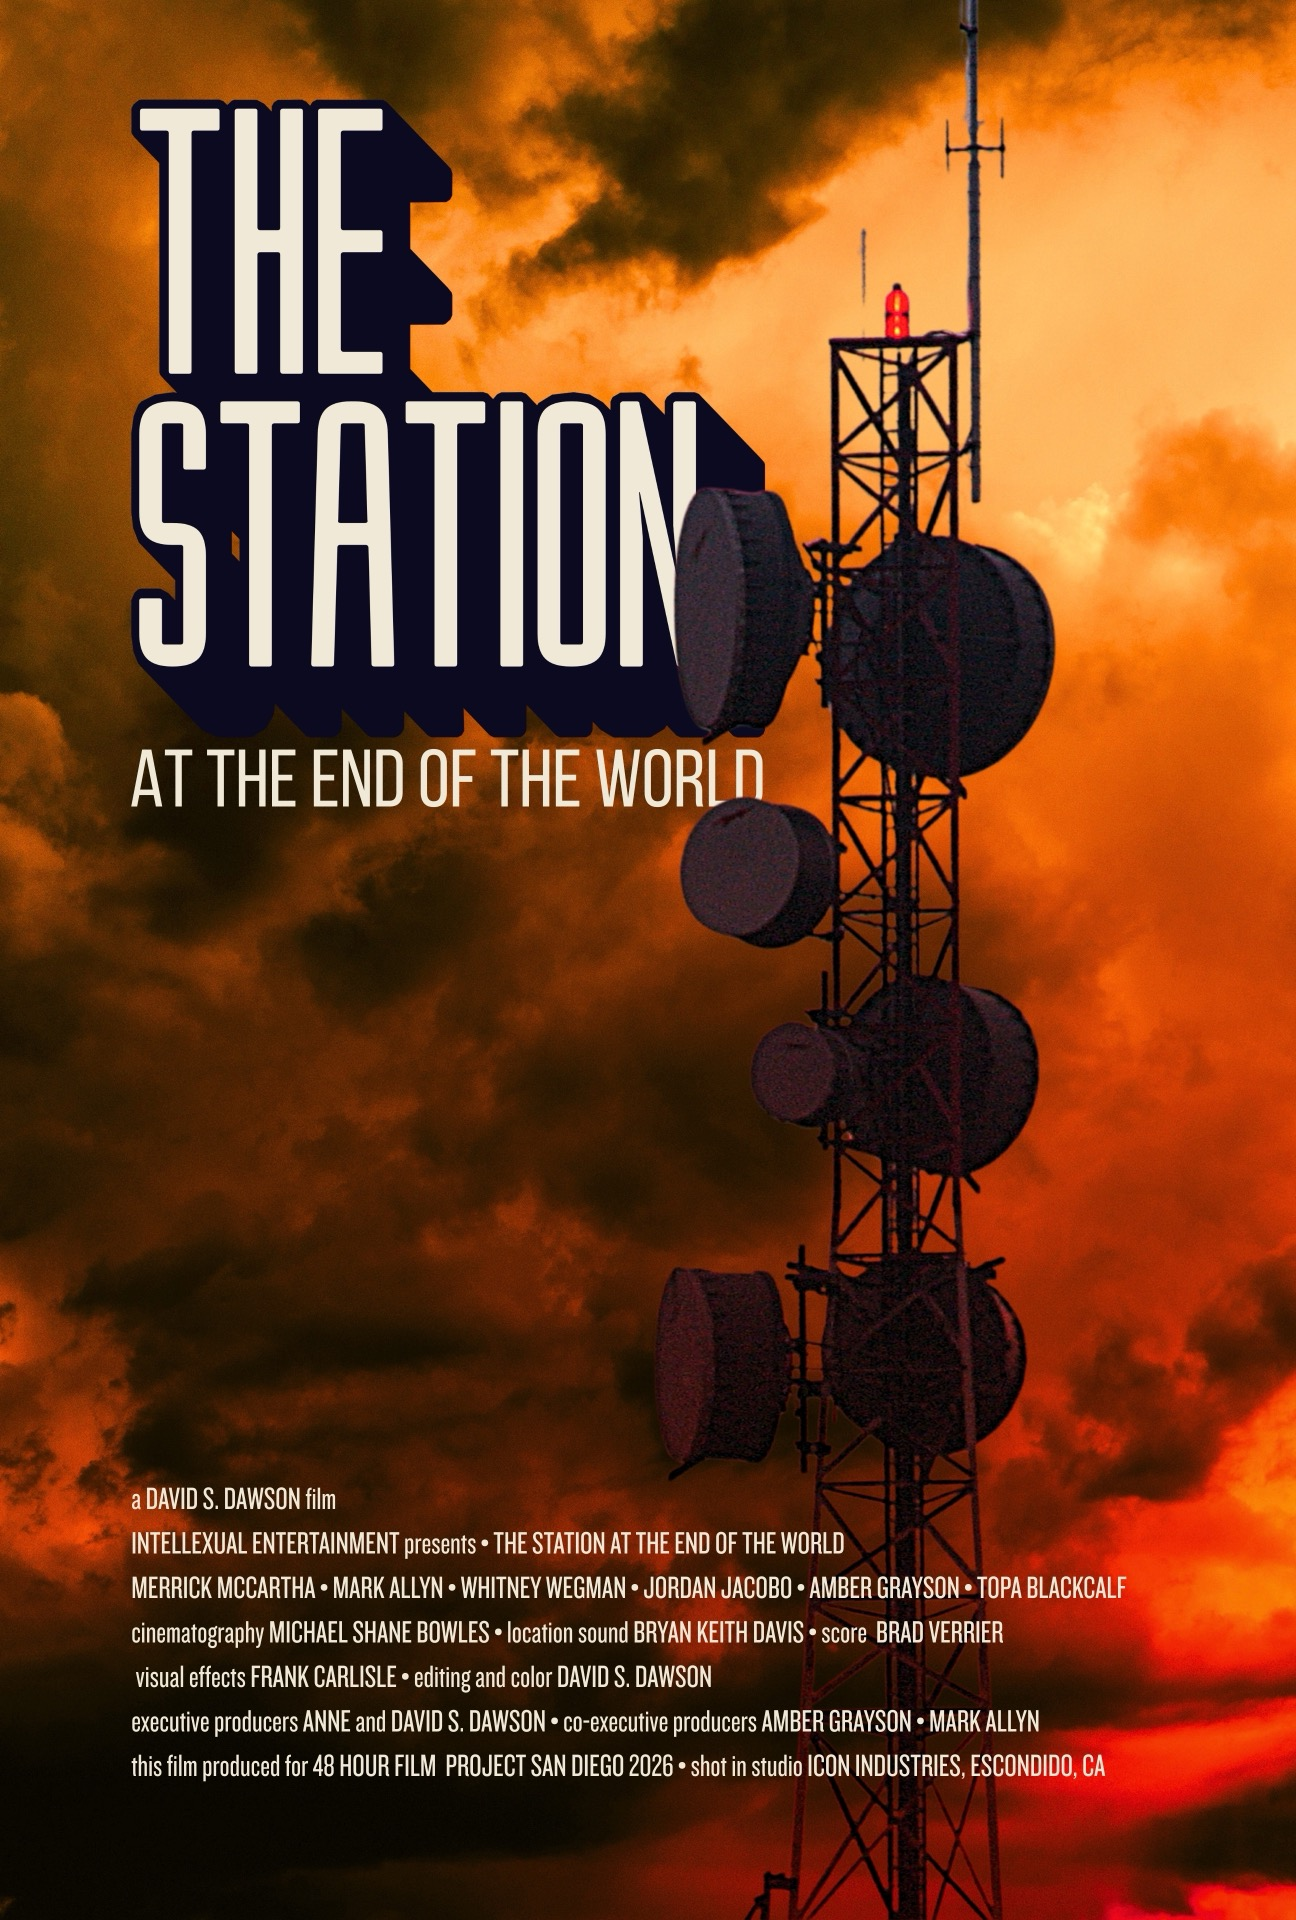
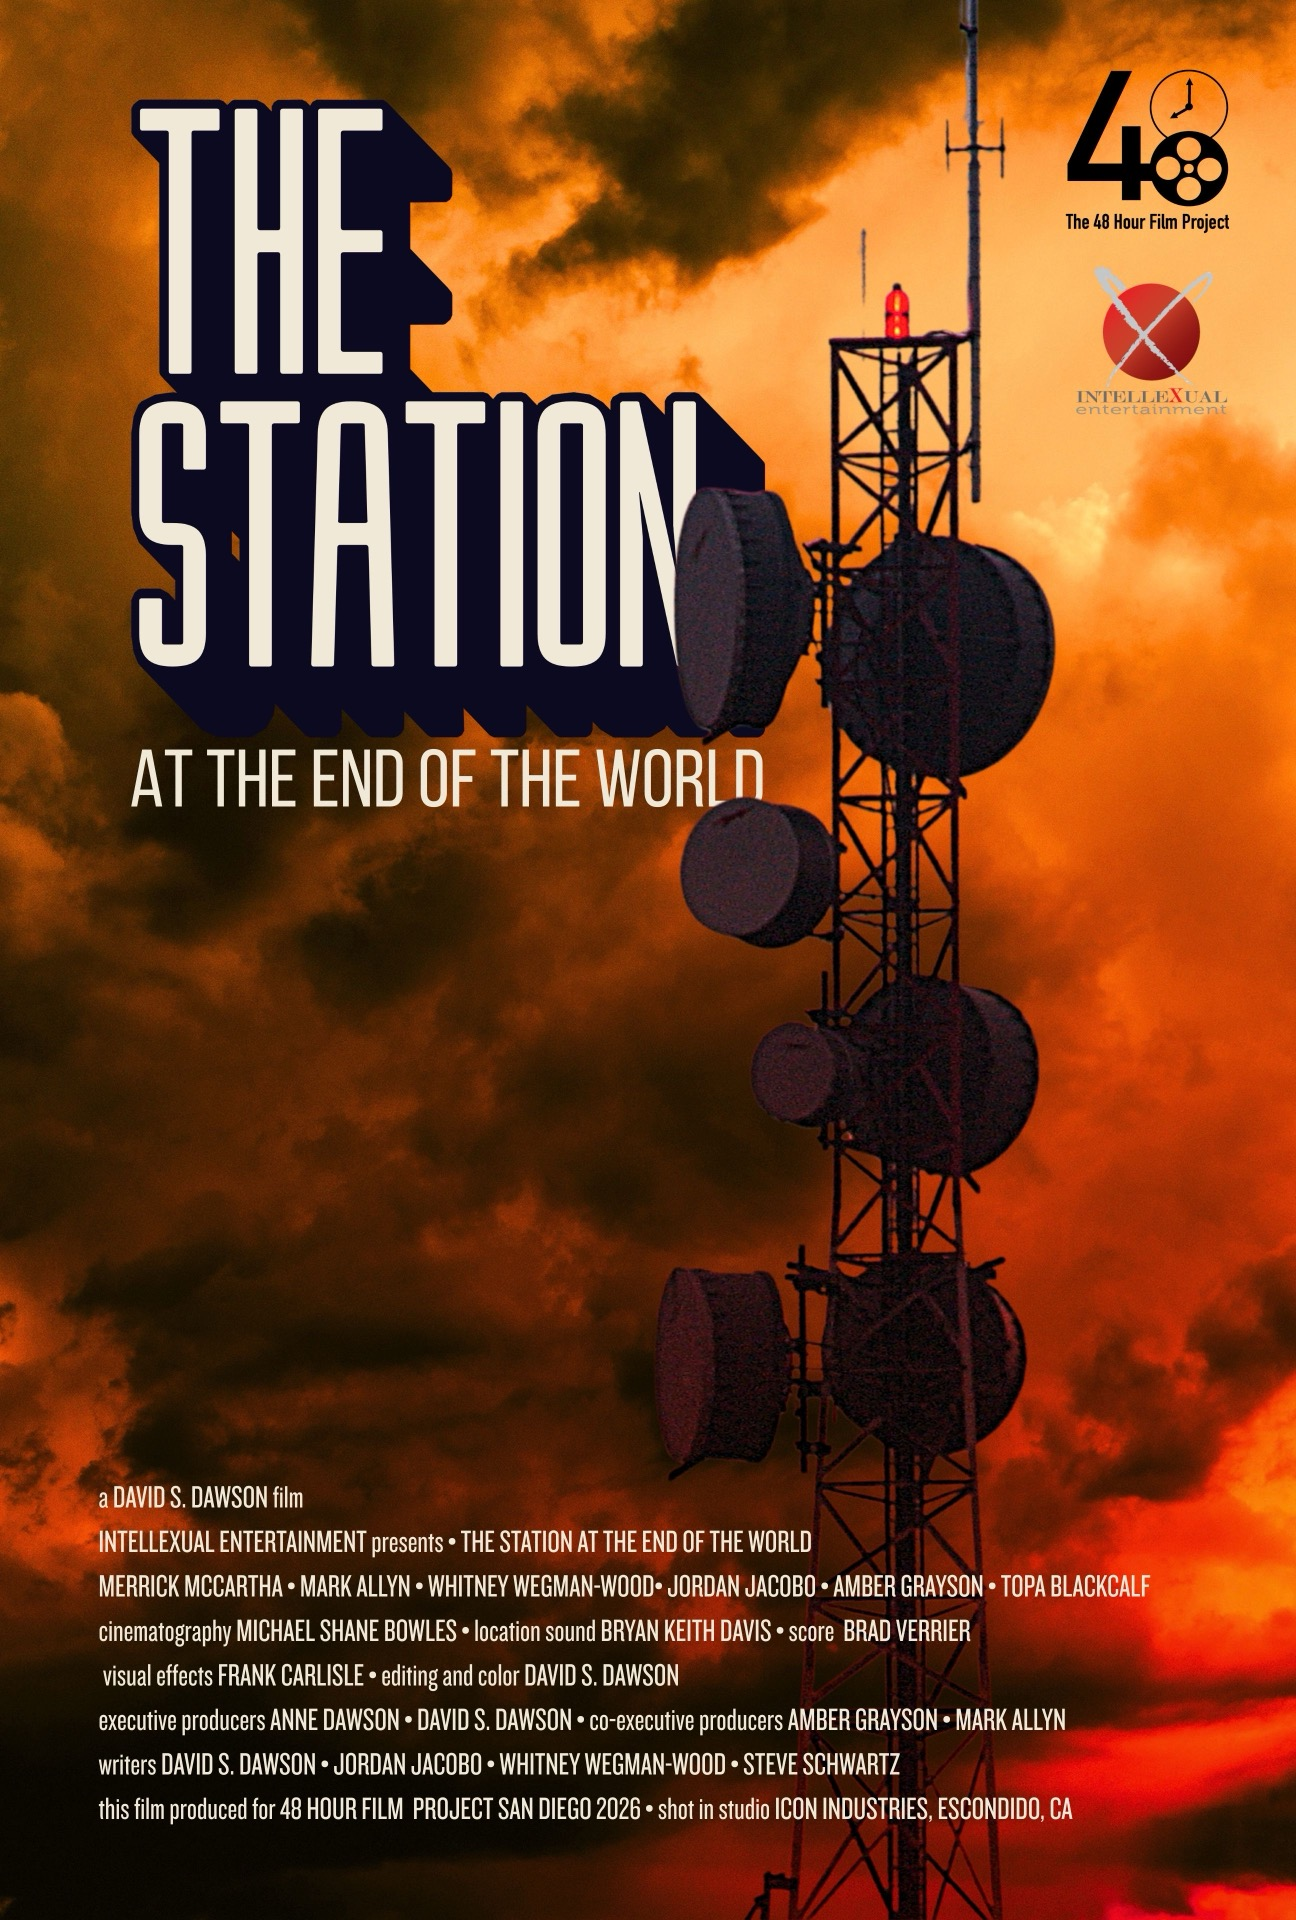
Publish new 2026 posters, Cimitoro BTS, and reculled 2880 thumbs.

Changed region(s): [[0.0617, 0.75, 0.8951, 0.9688], [0.8025, 0.0312, 0.9568, 0.2188]]

diff --git a/scripts/import-2026-media.py b/scripts/import-2026-media.py
@@ -4,7 +4,7 @@
 Source (sd48hfp-2026):
 
   download/<team>/<team>-{poster,still,bts,group-picture}-N.ext
-  posters/<team>.ext                  # operator poster v0; HQ poster-1+ overrides
+  placeholder-posters/<team>.ext      # fallback poster v0; HQ poster-1+ overrides
   thumb/<team>/<team>-thumb-N.jpg
 
 Destination:
@@ -13,10 +13,10 @@ Destination:
   cdn/films/2026-<team>-<film>/{poster,still,bts,group}-NNN.jpg
   cdn/films/2026-<team>-<film>/thumb-NNN.jpg
 
-Operator posters in posters/<team>.ext are treated as version 0. The film
-page image uses the highest-numbered poster, so a dashboard upload
-(<team>-poster-1+) replaces v0. v0 is omitted from the poster gallery once
-an HQ poster exists.
+Placeholder posters in placeholder-posters/<team>.ext are treated as
+version 0. The film page image uses the highest-numbered poster, so a
+dashboard upload (<team>-poster-1+) replaces v0. v0 is omitted from the
+poster gallery once an HQ poster exists.
 
 Filmmaker stills/BTS/group/poster are compacted to sequential 001..N.
 Generated thumbs keep their source numbers so culled gaps survive:
@@ -51,7 +51,7 @@ from pathlib import Path
 SITE = Path("/Users/kilna/Code/48hfp/sandiego48.com")
 NAS = Path("/Users/kilna/NAS/project/sd48hfp-2026")
 DOWNLOAD = NAS / "download"
-POSTERS = NAS / "posters"
+POSTERS = NAS / "placeholder-posters"
 THUMB = NAS / "thumb"
 CONTENT = SITE / "content" / "films"
 CDN = SITE / "cdn" / "films"
@@ -126,7 +126,7 @@ def film_dir_for_team(team: str, film_dirs: list[Path]) -> Path | None:
 
 
 def operator_poster_v0(team: str) -> Path | None:
-  """Return posters/<team>.ext, the operator fallback (version 0)."""
+  """Return placeholder-posters/<team>.ext, the fallback poster (version 0)."""
   if not POSTERS.is_dir():
     return None
   matches: list[Path] = []
@@ -144,7 +144,7 @@ def operator_poster_v0(team: str) -> Path | None:
 
 
 def copy_poster_v0(team: str, src: Path, dry_run: bool) -> Path:
-  """Place operator posters in download as <team>-poster-0 so HQ v1+ wins."""
+  """Place placeholder posters in download as <team>-poster-0 so HQ v1+ wins."""
   dest_dir = DOWNLOAD / team
   dest = dest_dir / f"{team}-poster-0{src.suffix.lower()}"
   if dest.exists() and dest.stat().st_mtime >= src.stat().st_mtime - 1:

diff --git a/content/films/2026-2880-minute-movie-makers-charlie/index.md b/content/films/2026-2880-minute-movie-makers-charlie/index.md
@@ -18,7 +18,7 @@ params:
     poster:
       count: 1
     thumb:
-      numbers: [6, 19, 29, 37, 41]
+      numbers: [1, 6, 29, 37, 41]
 screening_groups:
   - "group-a"
 screening_events:

diff --git a/content/films/2026-dog-jaw-veloci-boyfriend/index.md b/content/films/2026-dog-jaw-veloci-boyfriend/index.md
@@ -12,7 +12,7 @@ params:
   genre: "Fish Out of Water"
   galleries:
     poster:
-      count: 2
+      count: 3
     thumb:
       numbers: [11, 19, 24, 30, 37]
 screening_groups:

diff --git a/content/films/2026-metal-pixel-foundry-curios-and-other-curiosities/index.md b/content/films/2026-metal-pixel-foundry-curios-and-other-curiosities/index.md
@@ -16,7 +16,7 @@ params:
     - "Language"
   galleries:
     poster:
-      count: 1
+      count: 2
     thumb:
       numbers: [8, 13, 20, 34, 39]
 screening_groups:

diff --git a/content/films/2026-cimitoro-culpa/index.md b/content/films/2026-cimitoro-culpa/index.md
@@ -19,6 +19,8 @@ params:
       count: 2
     still:
       count: 3
+    bts:
+      count: 8
     thumb:
       numbers: [10, 17, 33, 37, 40]
 screening_groups:

diff --git a/content/films/2026-intellexual-the-station-at-the-end-of-the-world/index.md b/content/films/2026-intellexual-the-station-at-the-end-of-the-world/index.md
@@ -16,7 +16,7 @@ params:
     - "Violence"
   galleries:
     poster:
-      count: 3
+      count: 4
     still:
       count: 3
     bts:
